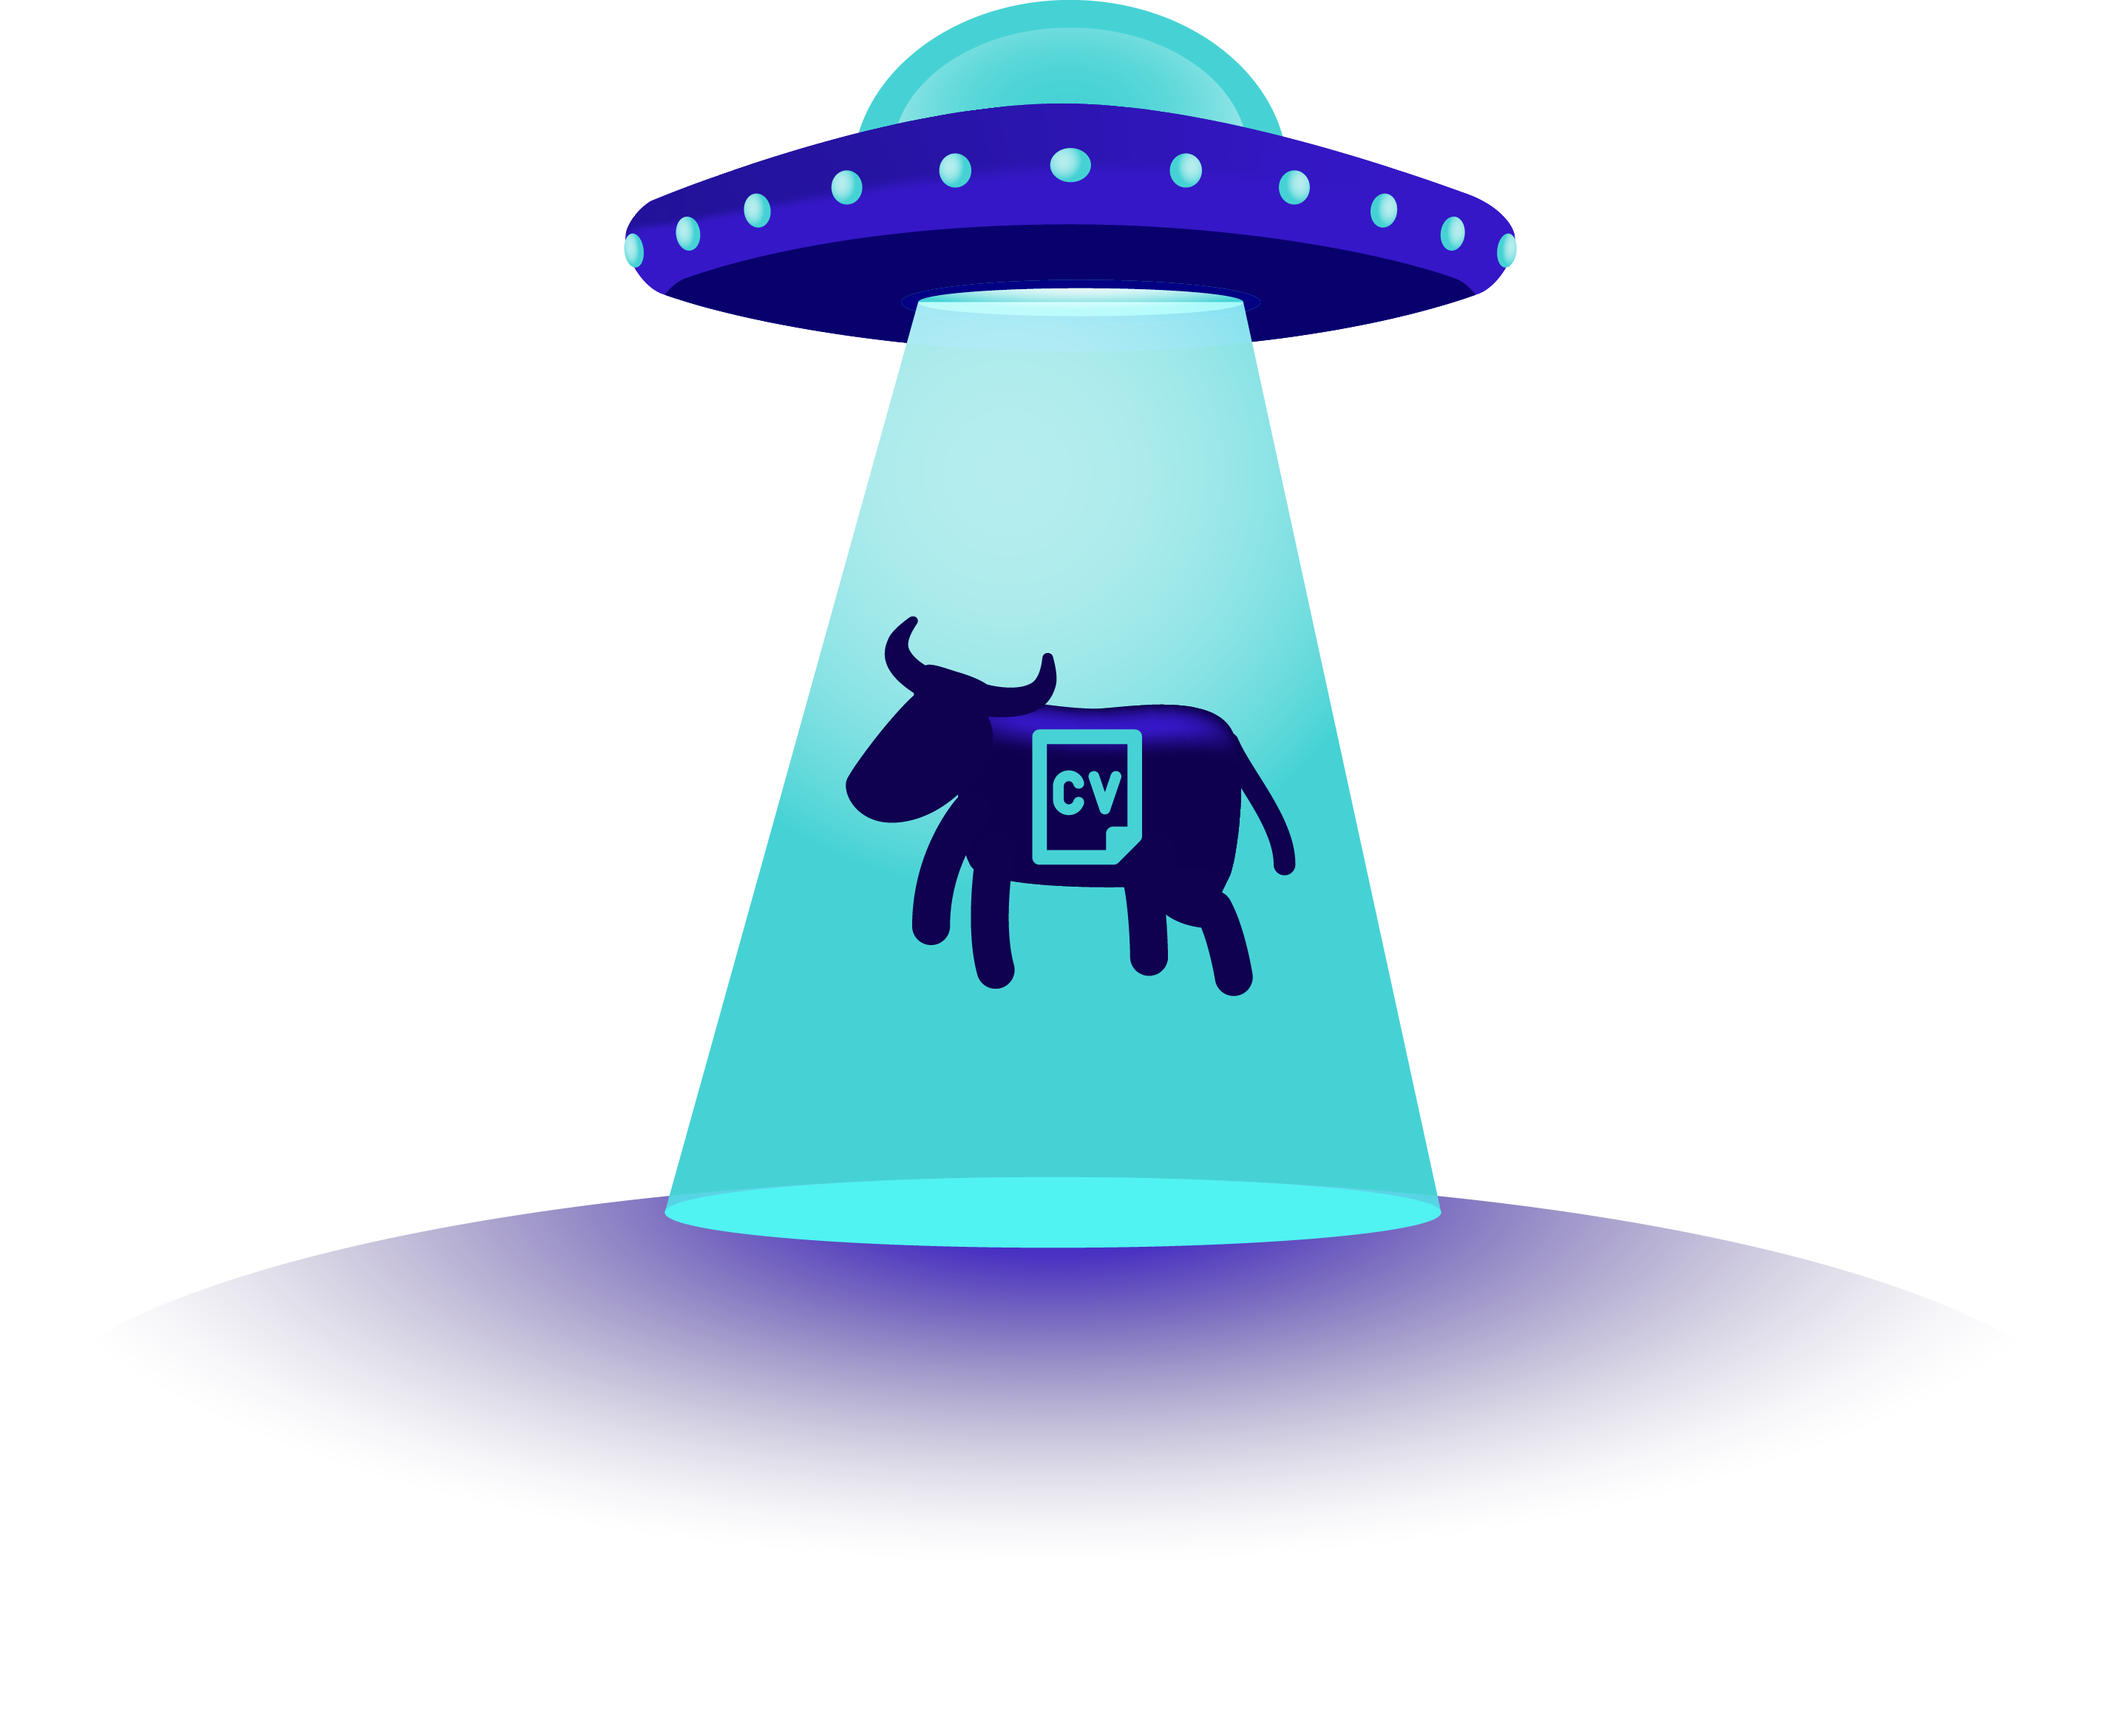
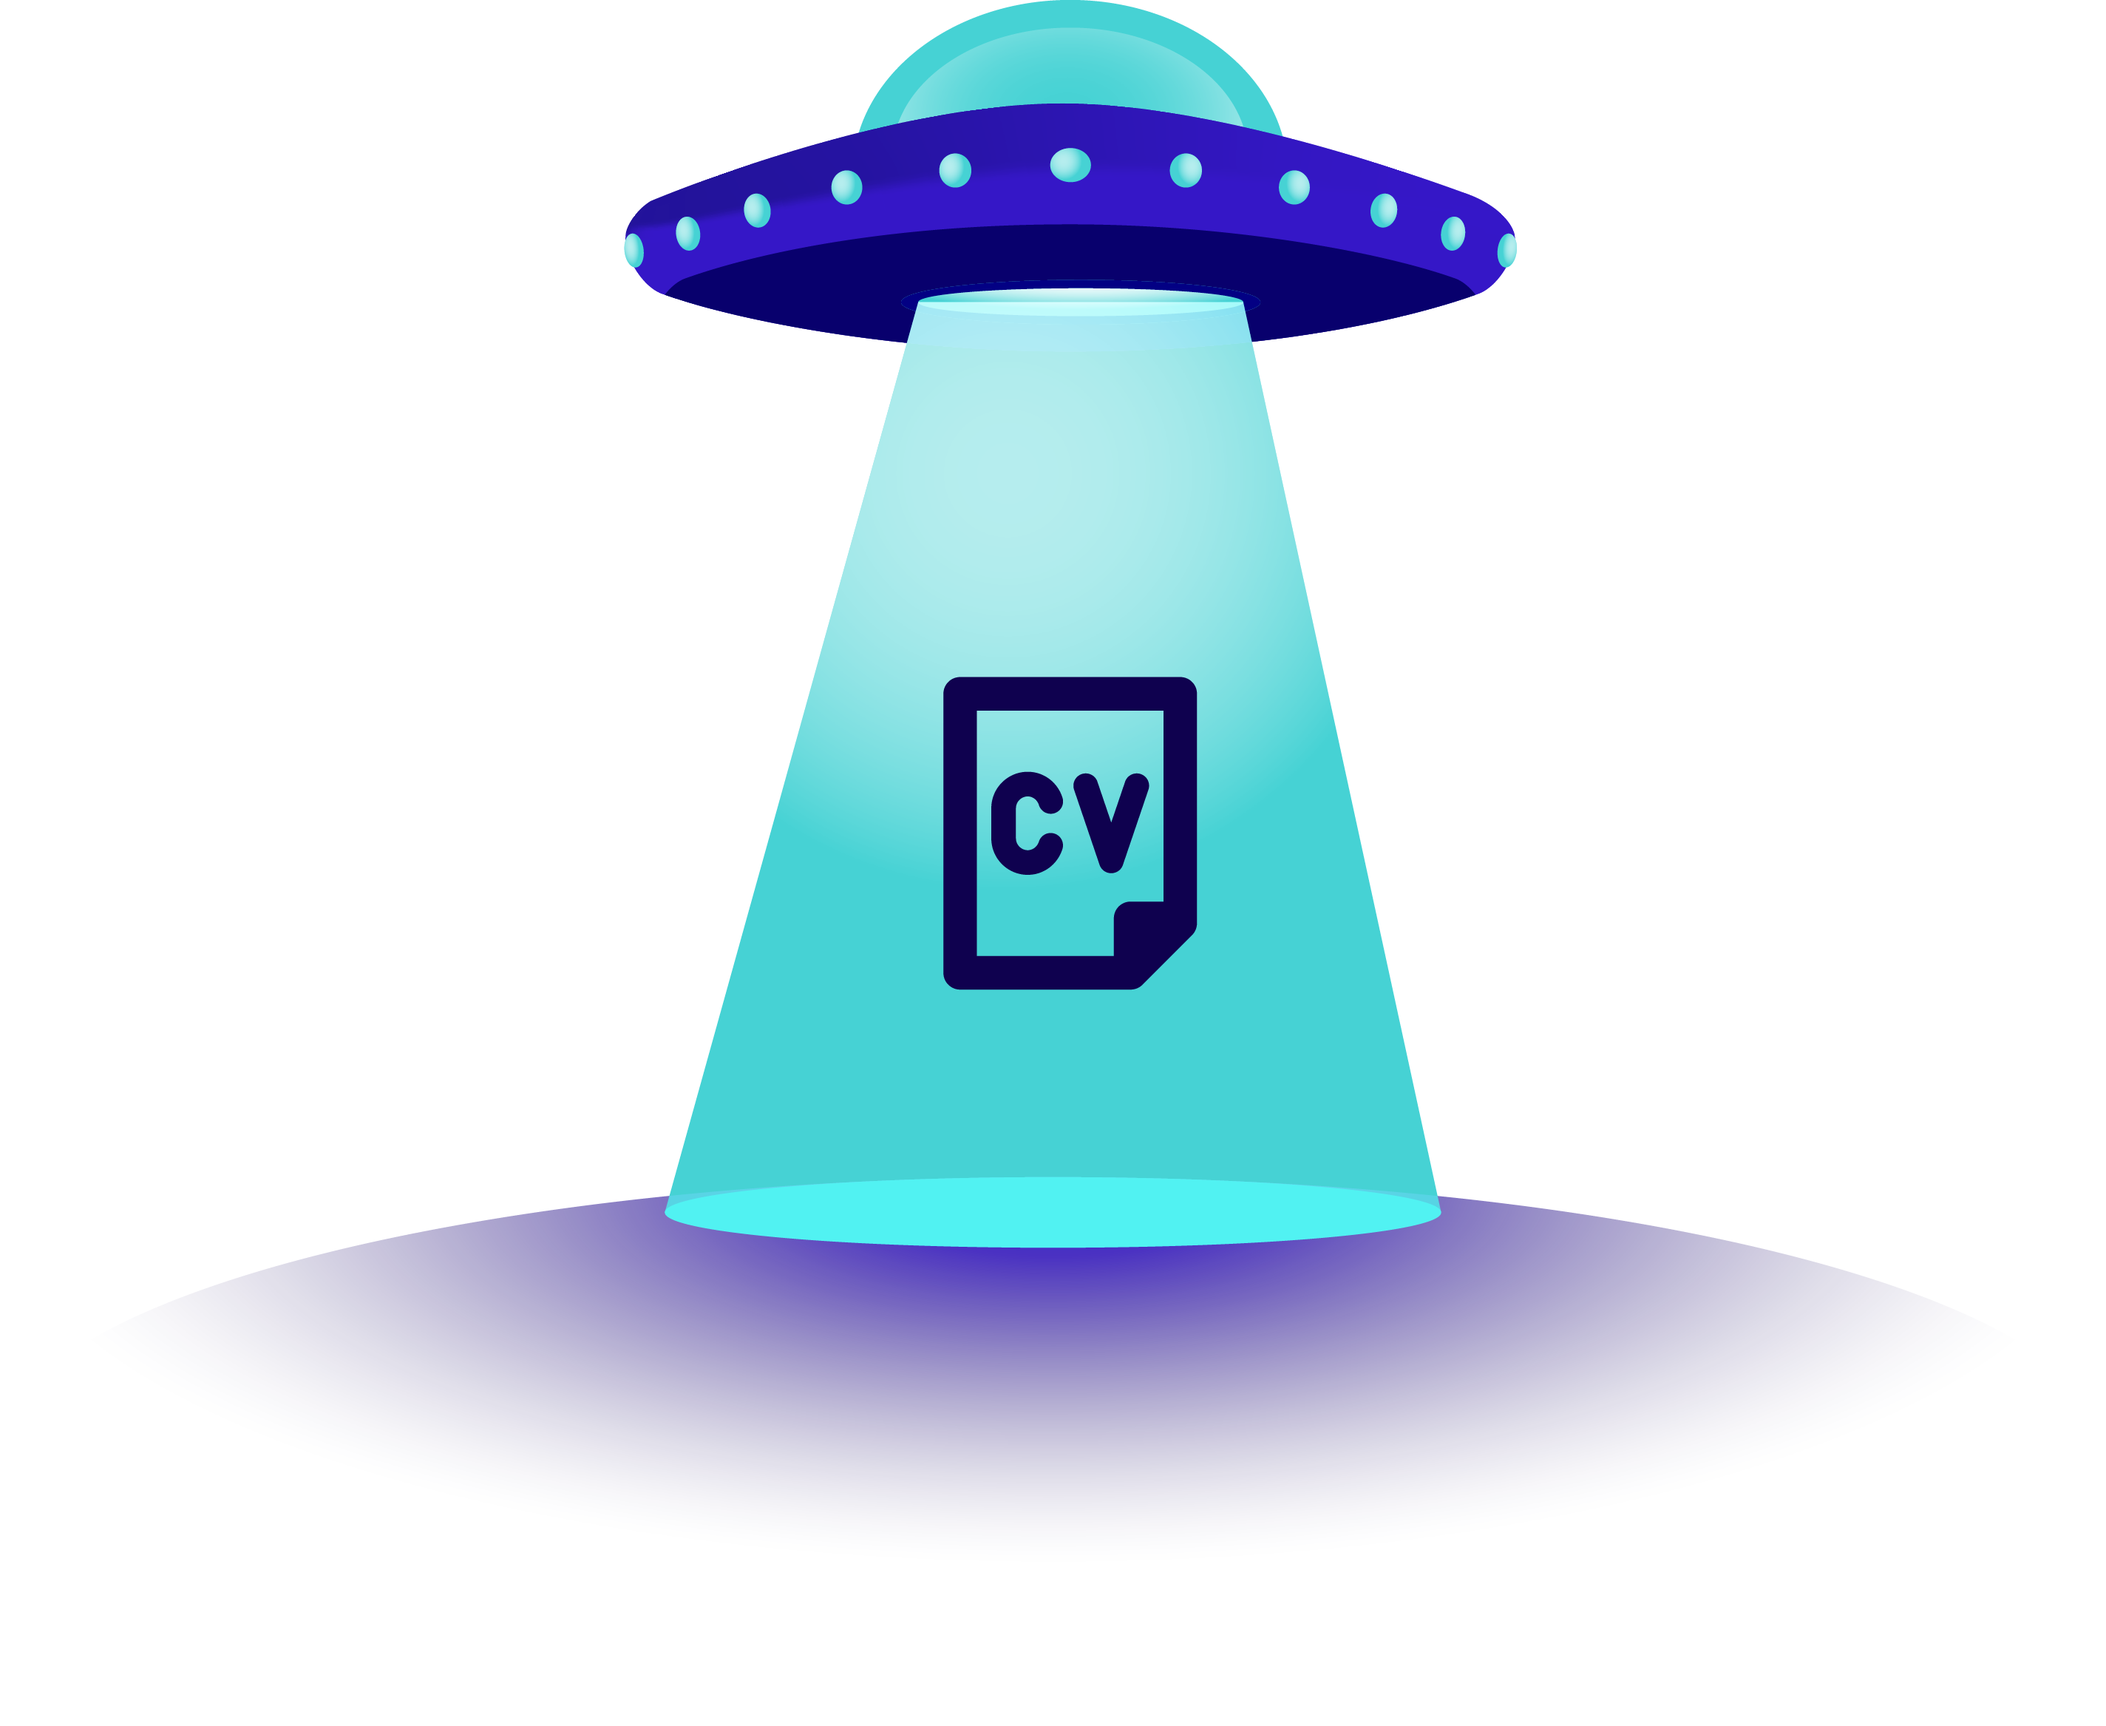
site updates

Changed region(s): [[0.4061, 0.3393, 0.6248, 0.5861]]

diff --git a/app/index.html b/app/index.html
@@ -33,39 +33,23 @@
 <body class="main">
     <img class="logo" src="images/2commit logo/logo-horizontal.png" alt="">
 
+
+
     <section id="landing" class="landing">
         <h1>Creating <br />commitment<br />in the digital<br />universe.</h1>
         <div class="landing-sub">
-            <a href="#landing-navigation">Tekstje voor voorzien</a>
-            <img src="images/flow-arrow.png" alt="">
+            <a href="#landing-navigation">Duik dieper
+                <img class="landing-navigation-img mouse-pointer" src="images/flow-arrow.png" alt="">                
+            </a>
         </div>
 
         <div class="window-animated"></div>
     </section>
 
-    <div class="flexNavigation collapsed">
-        <div class="container">
-            <a class="menuButton">
-				<i class="fa fa-bars"></i>
-				<i class="fa fa-close"></i>
-			</a>
-            <div class="menu">
-                <ul>
-                    <li><a href="/">HOME</a></li>
-                    <li><a href="team.html">TEAM</a></li>
-                    <li><a href="oplossingen.html">OPLOSSINGEN</a></li>
-                    <li><a href="commitment.html">COMMITMENT</a></li>
-                    <li><a href="contact.html">CONTACT</a></li>
-                    <li><a href="jobs.html">JOBS</a></li>
-                </ul>
-            </div>
-        </div>
-    </div>
-
     <section id="landing-navigation" class="landing-navigation">
         <div class="container">
             <div class="row">
-                <a href="http://google.be">
+                <a href="oplossingen.html">
                     <div class="col-4">
                         <div class="landing-navigation-block">
                             <div class="img">
@@ -78,7 +62,7 @@
                         </div>
                     </div>
                 </a>
-                <a href="http://google.be">
+                <a href="waarom.html">
                     <div class="col-4">
                         <div class="landing-navigation-block">
                             <div class="img">
@@ -91,7 +75,7 @@
                         </div>
                     </div>
                 </a>
-                <a href="http://google.be">
+                <a href="commitment.html">
                     <div class="col-4">
                         <div class="landing-navigation-block">
                             <div class="img">
@@ -106,12 +90,31 @@
                 </a>
             </div>
         </div>
+        <a class="twitter-timeline" data-width="600" data-height="600" data-theme="dark" data-link-color="#2B7BB9" href="https://twitter.com/2_commit">Tweets by 2_commit</a>
+        <script async src="//platform.twitter.com/widgets.js" charset="utf-8"></script>
     </section>
+
+    <div class="flexNavigation collapsed">
+        <div class="container">
+            <a class="menuButton">
+                        <i class = "fa fa-bars"></i>
+                        <i class = "fa fa-close"></i>
+                    </a>
+            <div class="menu">
+                <ul>
+                    <li><a href="index.html">HOME</a></li>
+                    <li><a href="commitment.html">COMMITMENT</a></li>
+                    <li><a href="oplossingen.html">OPLOSSINGEN</a></li>
+                    <li><a href="team.html">TEAM</a></li>
+                    <li><a href="jobs.html">JOBS</a></li>
+                    <li><a href="contact.html">CONTACT</a></li>
+                </ul>
+            </div>
+        </div>
+    </div>
 
     <!-- Index -->
     <script src="js/pages/index.js"></script>
-
-
     <script src="js/flexNav.js"></script>
 </body>
 

diff --git a/app/scss/pages/landing.scss b/app/scss/pages/landing.scss
@@ -2,8 +2,9 @@
 .landing-sub {
     a {
         display: inline-block;
-        margin-left: 10px;
-        font-size: 0.8rem;
+        margin-left: 30px;
+        margin-top: 10px;
+        font-size: 0.6rem;
         text-decoration: none;
         color: $commit-white;
         font-family: 'Open Sans Condensed', sans-serif;
@@ -19,8 +20,8 @@ h1 {
     font-size: 1.5rem;
     line-height: 1.5rem;
     letter-spacing: 0.2rem;
-    margin-top: 100px;
-    margin-left: 10px;
+    margin-top: 80px;
+    margin-left: 30px;
     margin-bottom: 0px;
 }
 
@@ -103,6 +104,13 @@ p {
     border-color: $color-primary-flash;
 }
 
+.landing-navigation-img {
+    margin-left: 5px;
+    margin-bottom: -5px;
+}
+
+.landing-navigation-img:hover {}
+
 
 /* Size specific */
 
@@ -121,6 +129,7 @@ p {
         a {
             display: inline-block;
             margin-left: 25px;
+            margin-top: 15px;
             font-size: 0.8rem;
             text-decoration: none;
             color: $commit-white;
@@ -146,7 +155,7 @@ p {
         line-height: 3.5rem;
         letter-spacing: 0.3rem;
         margin-top: 150px;
-        margin-left: 25px;
+        margin-left: 40px;
         margin-bottom: 0px;
     }
     p {
@@ -155,7 +164,8 @@ p {
     .landing-sub {
         a {
             display: inline-block;
-            margin-left: 25px;
+            margin-left: 40px;
+            margin-top: 15px;
             font-size: 0.8rem;
             text-decoration: none;
             color: $commit-white;
@@ -167,7 +177,7 @@ p {
         width: 100%;
         height: 100%;
         background: url("../../images/space_window_small.png") no-repeat;
-        left: 270px;
+        left: 300px;
         top: 0;
         opacity: 1;
         position: absolute;
@@ -190,6 +200,7 @@ p {
         a {
             display: inline-block;
             margin-left: 70px;
+            margin-top: 25px;
             font-size: 0.8rem;
             text-decoration: none;
             color: $commit-white;
@@ -224,6 +235,7 @@ p {
         a {
             display: inline-block;
             margin-left: 100px;
+            margin-top: 35px;
             font-size: 0.8rem;
             text-decoration: none;
             color: $commit-white;
@@ -249,8 +261,8 @@ p {
         font-size: 7.5rem;
         line-height: 110px;
         letter-spacing: 17px;
-        margin-top: 200px;
-        margin-left: 120px;
+        margin-top: 180px;
+        margin-left: 160px;
         margin-bottom: 0px;
     }
     p {
@@ -259,7 +271,8 @@ p {
     .landing-sub {
         a {
             display: inline-block;
-            margin-left: 120px;
+            margin-left: 160px;
+            margin-top: 35px;
             font-size: 0.8rem;
             text-decoration: none;
             color: $commit-white;
@@ -296,6 +309,7 @@ p {
         a {
             display: inline-block;
             margin-left: 120px;
+            margin-top: 35px;
             font-size: 0.8rem;
             text-decoration: none;
             color: $commit-white;

diff --git a/app/css/pages/landing.css b/app/css/pages/landing.css
@@ -155,8 +155,9 @@ section {
 
 .landing-sub a {
   display: inline-block;
-  margin-left: 10px;
-  font-size: 0.8rem;
+  margin-left: 30px;
+  margin-top: 10px;
+  font-size: 0.6rem;
   text-decoration: none;
   color: white;
   font-family: 'Open Sans Condensed', sans-serif;
@@ -169,8 +170,8 @@ h1 {
   font-size: 1.5rem;
   line-height: 1.5rem;
   letter-spacing: 0.2rem;
-  margin-top: 100px;
-  margin-left: 10px;
+  margin-top: 80px;
+  margin-left: 30px;
   margin-bottom: 0px; }
 
 p {
@@ -240,6 +241,10 @@ p {
 .landing-navigation-block:hover hr {
   border-color: #02031D; }
 
+.landing-navigation-img {
+  margin-left: 5px;
+  margin-bottom: -5px; }
+
 /* Size specific */
 @media only screen and (min-width: 350px) {
   h1 {
@@ -253,6 +258,7 @@ p {
   .landing-sub a {
     display: inline-block;
     margin-left: 25px;
+    margin-top: 15px;
     font-size: 0.8rem;
     text-decoration: none;
     color: white;
@@ -274,13 +280,14 @@ p {
     line-height: 3.5rem;
     letter-spacing: 0.3rem;
     margin-top: 150px;
-    margin-left: 25px;
+    margin-left: 40px;
     margin-bottom: 0px; }
   p {
     margin-left: 25px; }
   .landing-sub a {
     display: inline-block;
-    margin-left: 25px;
+    margin-left: 40px;
+    margin-top: 15px;
     font-size: 0.8rem;
     text-decoration: none;
     color: white;
@@ -290,7 +297,7 @@ p {
     width: 100%;
     height: 100%;
     background: url("../../images/space_window_small.png") no-repeat;
-    left: 270px;
+    left: 300px;
     top: 0;
     opacity: 1;
     position: absolute;
@@ -308,6 +315,7 @@ p {
   .landing-sub a {
     display: inline-block;
     margin-left: 70px;
+    margin-top: 25px;
     font-size: 0.8rem;
     text-decoration: none;
     color: white;
@@ -335,6 +343,7 @@ p {
   .landing-sub a {
     display: inline-block;
     margin-left: 100px;
+    margin-top: 35px;
     font-size: 0.8rem;
     text-decoration: none;
     color: white;
@@ -356,14 +365,15 @@ p {
     font-size: 7.5rem;
     line-height: 110px;
     letter-spacing: 17px;
-    margin-top: 200px;
-    margin-left: 120px;
+    margin-top: 180px;
+    margin-left: 160px;
     margin-bottom: 0px; }
   p {
     margin-left: 120px; }
   .landing-sub a {
     display: inline-block;
-    margin-left: 120px;
+    margin-left: 160px;
+    margin-top: 35px;
     font-size: 0.8rem;
     text-decoration: none;
     color: white;
@@ -393,6 +403,7 @@ p {
   .landing-sub a {
     display: inline-block;
     margin-left: 120px;
+    margin-top: 35px;
     font-size: 0.8rem;
     text-decoration: none;
     color: white;

diff --git a/app/jobs.html b/app/jobs.html
@@ -46,22 +46,17 @@
                     gaat kijken wat de open-source tools te bieden hebben?
                     <br /><br />Ben jij op zoek naar een tof team, waar ruimte is voor zelfontplooiing? Kijk dan zeker eens
                     of onderstaande vacatures u interesseren!
-                    <br>
+                    <br><br /> <b>Klik op onze UFO om je CV in te sturen!</b>
                 </p>
                 <br />
-                <button v-on:click="toggleCV" class="pull-right">Beam!</button>
             </div>
             <div class="jobs-tv-col col-md-7">
-                <img class="jobs-tv" src="images/jobs_tv_wide_team.png" alt="">
-            </div>
-        </div>
-        <div v-if="cow" class="row">
-            <div class="text-center col-md-12">
                 <div class="image-upload">
                     <label for="file-input">
                         <img id="cow" src="images/ufo-cow.png " alt=" ">
                     </label>
                     <input id="file-input" type="file" @change="onFileChange" />
+                    <!-- <button v-on:click="toggleCV" class="pull-right">Verstuur cv!</button>                     -->
                 </div>
             </div>
         </div>

diff --git a/app/css/pages/jobs.css b/app/css/pages/jobs.css
@@ -154,7 +154,8 @@ section {
     font-size: 5rem; } }
 
 #cow {
-  width: 50%; }
+  margin-top: -10px;
+  width: 100%; }
 
 .jobs-tv-col {
   text-align: center; }

diff --git a/app/scss/pages/jobs.scss b/app/scss/pages/jobs.scss
@@ -1,6 +1,7 @@
 @import 'styles';
 #cow {
-    width: 50%;
+    margin-top: -10px;
+    width: 100%;
 }
 
 .jobs-tv-col {
